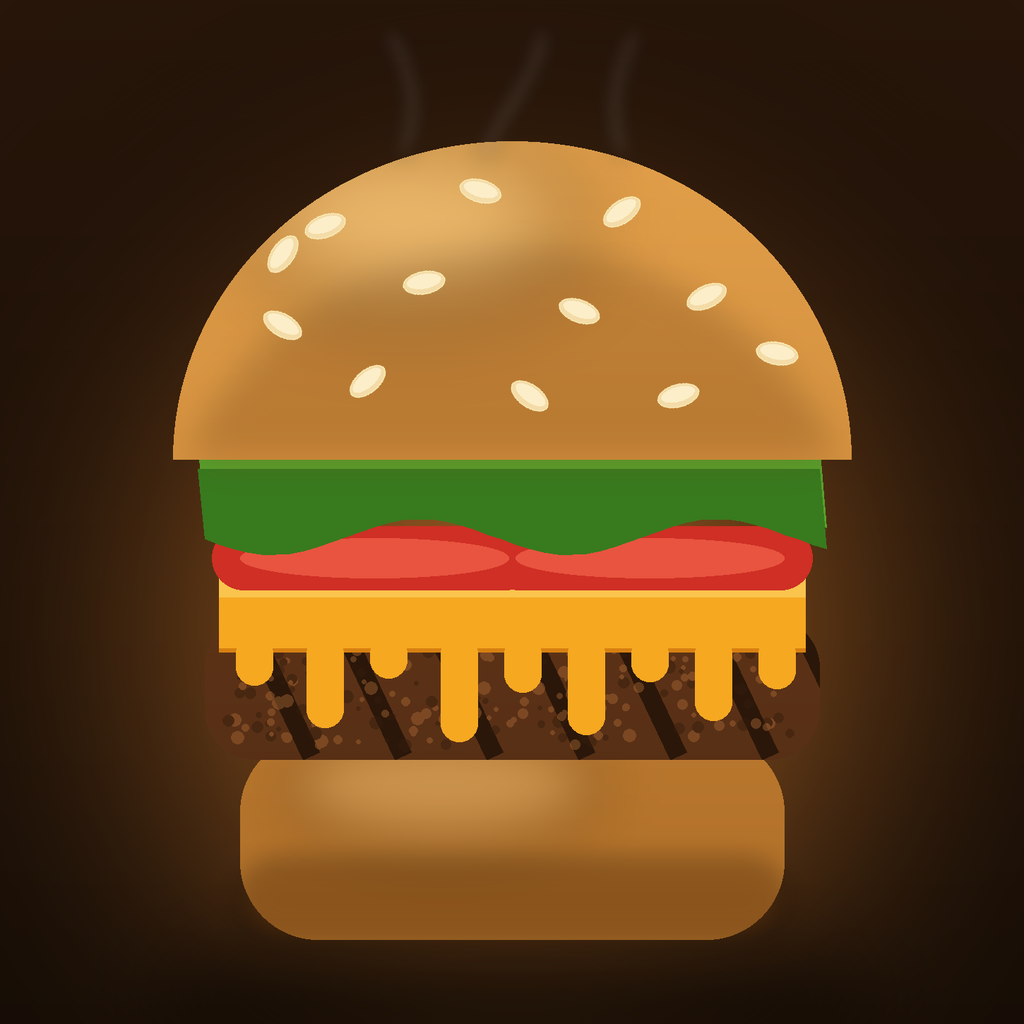
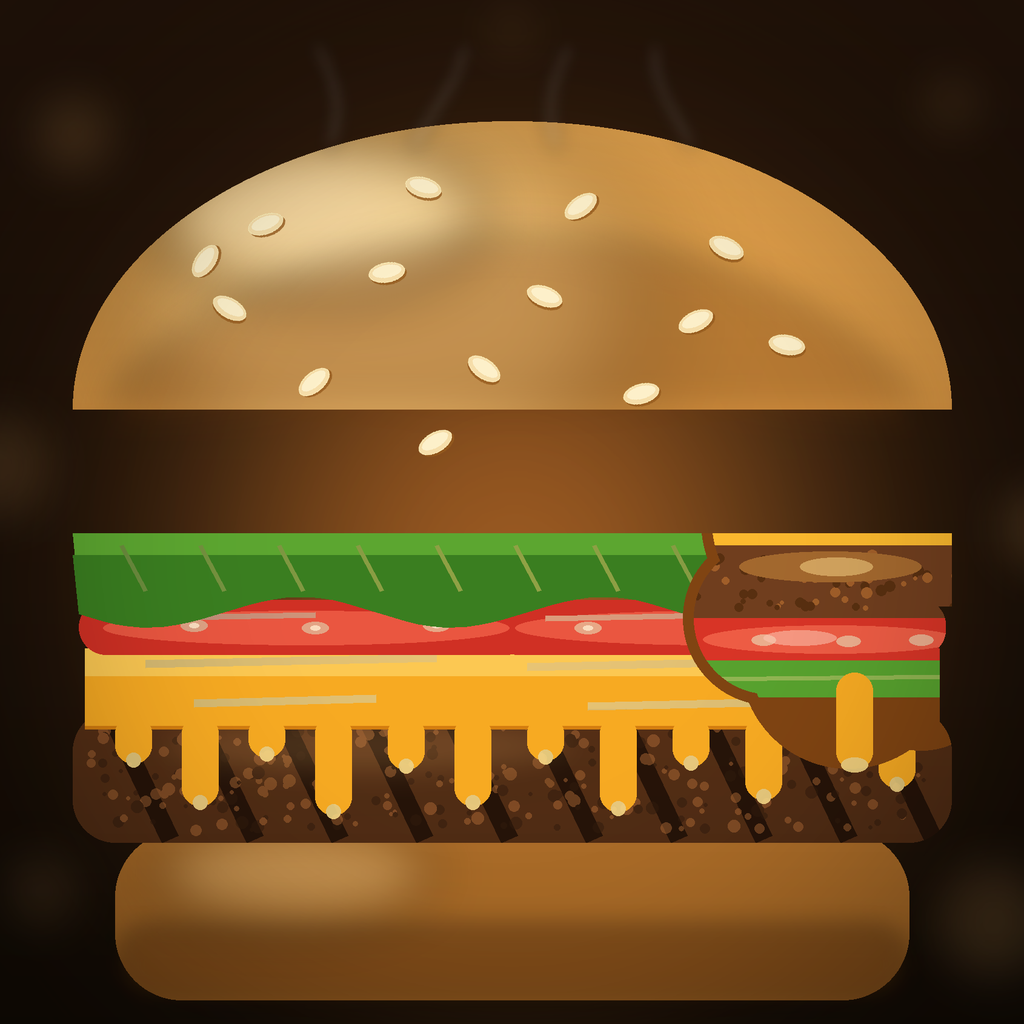
make.fun entry v2: The picture that tastes of one ingredient

diff --git a/make_image.py b/make_image.py
@@ -1,11 +1,16 @@
 # recorded build 2026-11-23
 #!/usr/bin/env python3
-"""Draw one delicious cheeseburger illustration (1024x1024 PNG).
+"""Draw one delicious cheeseburger illustration, revision v2 (1024x1024 PNG).
 
-Close-up of a single big cheeseburger on a warm dark background:
-glossy toasted top bun with sesame, melting cheddar dripping over a
-thick grilled patty, fresh lettuce, red tomato, soft steam, warm light
-from the top-left. Clean illustration style, no text anywhere.
+Close-up, burger fills ~90% of the frame, with a BITE taken out of the
+right side showing the juicy cross-section: bun crumb, melted cheese,
+grilled patty, tomato, lettuce, all glossy and wet-looking. Rich
+realistic shading, strong glossy highlight on the top-left of the bun,
+sesame seeds with little shadows, cheese highlight streaks and glossy
+round drips, patty grill marks and juice speckles, glossy tomato with
+visible seeds, lettuce with leaf veins. Warm dark brown background with
+a soft blurred light circle (bokeh) and a gentle vignette pulling the
+eye to the burger. 3-4 thin semi-transparent steam wisps. No text.
 Drawn at 2048 and downscaled to 1024 for smooth edges.
 """
 import math
@@ -13,7 +18,7 @@ import random
 from PIL import Image, ImageDraw, ImageFilter
 
 S = 2048
-random.seed(7)
+random.seed(11)
 OUT = "/home/hatch/workspace/makefun/the-picture-that-tastes-of-one-entry/entry.png"
 
 
@@ -30,7 +35,6 @@ def vgrad(w, h, top, bottom):
 
 
 def masked_gradient(size, mask_draw_fn, top, bottom):
-    """Vertical gradient clipped to the shape drawn by mask_draw_fn."""
     mask = Image.new("L", size, 0)
     md = ImageDraw.Draw(mask)
     mask_draw_fn(md)
@@ -46,147 +50,278 @@ def clip_alpha(layer, mask):
     return layer
 
 
-# ---------- background: dark warm gradient + glow behind the burger ----------
-img = vgrad(S, S, (43, 23, 10), (18, 11, 5)).convert("RGBA")
+# ---------- background: dark warm gradient + warm glow + bokeh ----------
+img = vgrad(S, S, (46, 25, 11), (16, 10, 4)).convert("RGBA")
 
 glow = Image.new("RGBA", (S, S), (0, 0, 0, 0))
 gd = ImageDraw.Draw(glow)
-gd.ellipse([380, 420, 1670, 1780], fill=(150, 88, 34, 255))
-glow = glow.filter(ImageFilter.GaussianBlur(260))
+gd.ellipse([380, 380, 1680, 1800], fill=(165, 96, 36, 255))
+glow = glow.filter(ImageFilter.GaussianBlur(280))
 img.alpha_composite(glow)
+
+bokeh = Image.new("RGBA", (S, S), (0, 0, 0, 0))
+bd = ImageDraw.Draw(bokeh)
+for (x, y, r, a) in [(300, 350, 90, 55), (1750, 300, 70, 45), (180, 900, 110, 40),
+                     (1900, 1000, 95, 50), (250, 1600, 80, 42), (1820, 1650, 120, 48),
+                     (1024, 180, 60, 38), (420, 1250, 65, 34)]:
+    bd.ellipse([x - r, y - r, x + r, y + r], fill=(255, 190, 110, a))
+bokeh = bokeh.filter(ImageFilter.GaussianBlur(46))
+img.alpha_composite(bokeh)
 
 # ---------- soft shadow under the burger ----------
 sh = Image.new("RGBA", (S, S), (0, 0, 0, 0))
 sd = ImageDraw.Draw(sh)
-sd.ellipse([500, 1530, 1550, 1710], fill=(0, 0, 0, 150))
-sh = sh.filter(ImageFilter.GaussianBlur(55))
+sd.ellipse([430, 1560, 1620, 1760], fill=(0, 0, 0, 160))
+sh = sh.filter(ImageFilter.GaussianBlur(60))
 img.alpha_composite(sh)
+
+# ---------- burger silhouette mask (for the bite) ----------
+sil = Image.new("L", (S, S), 0)
+sm = ImageDraw.Draw(sil)
+sm.pieslice([300, 330, 1750, 1280], start=180, end=360, fill=255)
+sm.polygon([(300, 1010), (1750, 1010), (1750, 1130), (300, 1130)], fill=255)
+sm.rounded_rectangle([310, 1120, 1740, 1210], radius=40, fill=255)
+sm.rectangle([320, 1200, 1730, 1330], fill=255)
+sm.rounded_rectangle([300, 1300, 1750, 1520], radius=70, fill=255)
+sm.rounded_rectangle([370, 1500, 1680, 1780], radius=110, fill=255)
 
 # ---------- bottom bun ----------
 def bun_mask(md):
-    md.rounded_rectangle([640, 1240, 1410, 1530], radius=110, fill=255)
+    md.rounded_rectangle([370, 1500, 1680, 1780], radius=110, fill=255)
 
-layer, _ = masked_gradient((S, S), bun_mask, (226, 154, 69), (158, 96, 30))
+layer, _ = masked_gradient((S, S), bun_mask, (232, 160, 74), (150, 90, 28))
 img.alpha_composite(layer)
 ov = Image.new("RGBA", (S, S), (0, 0, 0, 0))
 od = ImageDraw.Draw(ov)
-od.rounded_rectangle([640, 1420, 1410, 1530], radius=90, fill=(90, 48, 12, 110))
-ov = ov.filter(ImageFilter.GaussianBlur(18))
+od.rounded_rectangle([370, 1660, 1680, 1780], radius=90, fill=(88, 46, 12, 120))
+ov = ov.filter(ImageFilter.GaussianBlur(20))
 img.alpha_composite(ov)
 hl = Image.new("RGBA", (S, S), (0, 0, 0, 0))
 hd = ImageDraw.Draw(hl)
-hd.ellipse([700, 1220, 1150, 1400], fill=(255, 225, 160, 70))
-hl = hl.filter(ImageFilter.GaussianBlur(40))
+hd.ellipse([430, 1480, 900, 1660], fill=(255, 228, 165, 80))
+hl = hl.filter(ImageFilter.GaussianBlur(42))
 img.alpha_composite(hl)
 
-# ---------- patty: thick, grilled ----------
+# ---------- patty: thick, grilled, juicy ----------
 def patty_mask(md):
-    md.rounded_rectangle([590, 1075, 1460, 1275], radius=70, fill=255)
+    md.rounded_rectangle([300, 1300, 1750, 1520], radius=70, fill=255)
 
-layer, pmask = masked_gradient((S, S), patty_mask, (122, 66, 30), (66, 36, 16))
+layer, pmask = masked_gradient((S, S), patty_mask, (128, 70, 32), (62, 34, 15))
 img.alpha_composite(layer)
 
 gm = Image.new("RGBA", (S, S), (0, 0, 0, 0))
 g = ImageDraw.Draw(gm)
-for x0 in range(650, 1450, 130):
-    g.line([(x0, 1080), (x0 + 90, 1270)], fill=(30, 16, 6, 200), width=26)
+for x0 in range(360, 1720, 140):
+    g.line([(x0, 1305), (x0 + 100, 1515)], fill=(28, 14, 6, 210), width=30)
 img.alpha_composite(clip_alpha(gm, pmask))
 
 dots = Image.new("RGBA", (S, S), (0, 0, 0, 0))
 dd = ImageDraw.Draw(dots)
-for _ in range(260):
-    x = random.randint(620, 1430)
-    y = random.randint(1095, 1255)
-    r = random.randint(3, 9)
-    c = (52, 28, 12, 120) if random.random() < 0.5 else (170, 104, 52, 110)
+for _ in range(320):
+    x = random.randint(330, 1720)
+    y = random.randint(1320, 1500)
+    r = random.randint(3, 10)
+    c = (48, 26, 12, 130) if random.random() < 0.5 else (178, 108, 54, 120)
     dd.ellipse([x - r, y - r, x + r, y + r], fill=c)
 img.alpha_composite(clip_alpha(dots, pmask))
 
-# ---------- cheese: bright cheddar draped over the patty, dripping ----------
+sheen = Image.new("RGBA", (S, S), (0, 0, 0, 0))
+shd = ImageDraw.Draw(sheen)
+shd.ellipse([420, 1300, 1150, 1420], fill=(255, 190, 110, 46))
+sheen = sheen.filter(ImageFilter.GaussianBlur(30))
+img.alpha_composite(clip_alpha(sheen, pmask))
+
+# ---------- cheese: bright cheddar with highlight streaks and glossy drips ----------
 ch = Image.new("RGBA", (S, S), (0, 0, 0, 0))
 cd = ImageDraw.Draw(ch)
-cd.rectangle([610, 1005, 1440, 1120], fill=(246, 168, 33, 255))
-cd.rectangle([610, 1005, 1440, 1045], fill=(250, 196, 77, 255))
-cd.line([(610, 1120), (1440, 1120)], fill=(214, 128, 18, 255), width=6)
-# rounded drips of varying length hanging below the band
-for (x, length) in [(660, 70), (760, 130), (850, 60), (950, 150), (1040, 80),
-                    (1130, 140), (1220, 65), (1310, 120), (1400, 75)]:
-    cd.rounded_rectangle([x - 26, 1100, x + 26, 1100 + length], radius=26,
-                         fill=(246, 168, 33, 255))
+cd.rectangle([320, 1200, 1730, 1330], fill=(247, 170, 34, 255))
+cd.rectangle([320, 1200, 1730, 1245], fill=(252, 200, 82, 255))
+cd.line([(320, 1330), (1730, 1330)], fill=(212, 126, 16, 255), width=6)
+# bright highlight streaks across the band
+for (x0, y0, x1, y1) in [(420, 1225, 900, 1215), (1050, 1230, 1500, 1220),
+                         (500, 1290, 800, 1282), (1150, 1295, 1600, 1285)]:
+    cd.line([(x0, y0), (x1, y1)], fill=(255, 226, 140, 200), width=14)
+# rounded glossy drips of varying length
+for (x, length) in [(400, 80), (510, 150), (620, 70), (730, 165), (850, 90),
+                    (960, 150), (1080, 75), (1200, 160), (1320, 85), (1440, 140),
+                    (1560, 70), (1660, 120)]:
+    cd.rounded_rectangle([x - 30, 1310, x + 30, 1310 + length], radius=30,
+                         fill=(247, 170, 34, 255))
+    cd.ellipse([x - 12, 1310 + length - 18, x + 12, 1310 + length + 6],
+               fill=(255, 225, 140, 220))
 img.alpha_composite(ch)
 
-# ---------- tomato: two red slices peeking out ----------
+# ---------- tomato: two glossy red slices with visible seeds ----------
 tm = Image.new("RGBA", (S, S), (0, 0, 0, 0))
 td = ImageDraw.Draw(tm)
-td.rounded_rectangle([600, 945, 1060, 1035], radius=45, fill=(207, 47, 36, 255))
-td.rounded_rectangle([990, 945, 1450, 1035], radius=45, fill=(207, 47, 36, 255))
-td.ellipse([640, 962, 1020, 1018], fill=(232, 84, 63, 255))
-td.ellipse([1030, 962, 1410, 1018], fill=(232, 84, 63, 255))
+td.rounded_rectangle([310, 1120, 1060, 1210], radius=45, fill=(208, 48, 36, 255))
+td.rounded_rectangle([990, 1120, 1740, 1210], radius=45, fill=(208, 48, 36, 255))
+td.ellipse([350, 1138, 1020, 1194], fill=(234, 86, 64, 255))
+td.ellipse([1030, 1138, 1700, 1194], fill=(234, 86, 64, 255))
+# seed pockets
+for (x, y) in [(500, 1162), (700, 1166), (900, 1162), (1150, 1166), (1350, 1162), (1550, 1166)]:
+    td.ellipse([x - 22, y - 10, x + 22, y + 10], fill=(245, 180, 150, 220))
+    td.ellipse([x - 8, y - 4, x + 8, y + 4], fill=(250, 220, 190, 255))
+# gloss streak on tomato
+td.line([(380, 1150), (700, 1144)], fill=(255, 190, 170, 170), width=10)
+td.line([(1080, 1150), (1400, 1144)], fill=(255, 190, 170, 170), width=10)
 img.alpha_composite(tm)
 
-# ---------- lettuce: wavy fresh green leaf ----------
-top_y = 830
-pts = [(x, top_y) for x in range(580, 1471, 20)]
-for x in range(1470, 579, -20):
-    wave = 930 + int(26 * math.sin((x - 580) / 1470 * math.pi * 7))
+# ---------- lettuce: wavy fresh green leaf with veins ----------
+top_y = 1010
+pts = [(x, top_y) for x in range(300, 1751, 20)]
+for x in range(1750, 299, -20):
+    wave = 1110 + int(26 * math.sin((x - 300) / 1750 * math.pi * 7))
     pts.append((x, wave))
 lt = Image.new("RGBA", (S, S), (0, 0, 0, 0))
 ld = ImageDraw.Draw(lt)
-ld.polygon(pts, fill=(88, 160, 44, 255))
-band = [(x, top_y + 34) for x in range(580, 1471, 20)]
-for x in range(1470, 579, -20):
-    wave = 960 + int(26 * math.sin((x - 580) / 1470 * math.pi * 7))
+ld.polygon(pts, fill=(92, 166, 48, 255))
+band = [(x, top_y + 36) for x in range(300, 1751, 20)]
+for x in range(1750, 299, -20):
+    wave = 1140 + int(26 * math.sin((x - 300) / 1750 * math.pi * 7))
     band.append((x, wave))
-ld.polygon(band, fill=(56, 122, 30, 255))
+ld.polygon(band, fill=(58, 126, 32, 255))
+# leaf veins
+for x0 in range(380, 1700, 130):
+    ld.line([(x0, 1030), (x0 + 40, 1105)], fill=(140, 205, 90, 160), width=7)
 img.alpha_composite(lt)
 
-# ---------- top bun: golden dome ----------
+# ---------- top bun: golden dome with rich shading ----------
 def dome_mask(md):
-    md.pieslice([545, 400, 1505, 1300], start=180, end=360, fill=255)
+    md.pieslice([300, 330, 1750, 1280], start=180, end=360, fill=255)
 
-layer, dmask = masked_gradient((S, S), dome_mask, (238, 172, 84), (176, 106, 32))
+layer, dmask = masked_gradient((S, S), dome_mask, (242, 178, 88), (172, 102, 30))
 img.alpha_composite(layer)
 
-band = Image.new("RGBA", (S, S), (0, 0, 0, 0))
-bd = ImageDraw.Draw(band)
-bd.pieslice([545, 560, 1505, 1460], start=180, end=360, fill=(110, 58, 14, 70))
-band = clip_alpha(band, dmask).filter(ImageFilter.GaussianBlur(25))
-img.alpha_composite(band)
+# radial warm glow centred upper-left of the dome
+rg = Image.new("RGBA", (S, S), (0, 0, 0, 0))
+rd = ImageDraw.Draw(rg)
+rd.ellipse([380, 300, 1250, 950], fill=(255, 226, 160, 110))
+rg = rg.filter(ImageFilter.GaussianBlur(90))
+img.alpha_composite(clip_alpha(rg, dmask))
 
+# strong glossy highlight upper-left
 hl2 = Image.new("RGBA", (S, S), (0, 0, 0, 0))
 h2d = ImageDraw.Draw(hl2)
-h2d.ellipse([640, 380, 1120, 640], fill=(255, 232, 170, 90))
-hl2 = hl2.filter(ImageFilter.GaussianBlur(60))
+h2d.ellipse([430, 350, 980, 620], fill=(255, 238, 190, 130))
+h2d.ellipse([520, 380, 820, 540], fill=(255, 246, 214, 120))
+hl2 = hl2.filter(ImageFilter.GaussianBlur(46))
 img.alpha_composite(clip_alpha(hl2, dmask))
 
-# sesame seeds
+# warm shadow at the dome base
+band = Image.new("RGBA", (S, S), (0, 0, 0, 0))
+bd2 = ImageDraw.Draw(band)
+bd2.pieslice([300, 520, 1750, 1430], start=180, end=360, fill=(108, 56, 14, 80))
+band = clip_alpha(band, dmask).filter(ImageFilter.GaussianBlur(28))
+img.alpha_composite(band)
+
+# sesame seeds with little shadows
 def seed(angle):
-    t = Image.new("RGBA", (72, 44), (0, 0, 0, 0))
+    t = Image.new("RGBA", (76, 46), (0, 0, 0, 0))
     td = ImageDraw.Draw(t)
-    td.ellipse([6, 6, 66, 38], fill=(244, 220, 168, 255))
-    td.ellipse([12, 10, 60, 30], fill=(252, 238, 200, 255))
+    td.ellipse([8, 10, 68, 42], fill=(150, 92, 30, 200))
+    td.ellipse([6, 6, 66, 38], fill=(246, 222, 170, 255))
+    td.ellipse([13, 10, 60, 30], fill=(253, 240, 202, 255))
     return t.rotate(angle, expand=True, resample=Image.BICUBIC)
 
 positions = [
-    (760, 520, 20), (980, 470, -15), (1180, 500, 35), (700, 660, -30),
-    (900, 600, 10), (1120, 640, -20), (1300, 620, 25), (820, 740, 40),
-    (1050, 760, -35), (1260, 760, 15), (700, 560, 55), (1400, 700, -10),
+    (620, 500, 20), (880, 440, -15), (1140, 470, 35), (1380, 540, -25),
+    (560, 640, -30), (820, 580, 10), (1080, 620, -20), (1330, 660, 25),
+    (700, 760, 40), (980, 740, -35), (1240, 780, 15), (520, 560, 55),
+    (1480, 700, -10), (900, 860, 30),
 ]
 for (x, y, a) in positions:
     t = seed(a)
     img.alpha_composite(t, (x - t.width // 2, y - t.height // 2))
 
+# ---------- BITE on the right side: juicy cross-section ----------
+bite_circles = [(1520, 990, 165), (1660, 1060, 150), (1580, 1220, 160),
+                (1450, 1150, 125), (1700, 1240, 110)]
+bite = Image.new("L", (S, S), 0)
+bdraw = ImageDraw.Draw(bite)
+for (cx, cy, r) in bite_circles:
+    bdraw.ellipse([cx - r, cy - r, cx + r, cy + r], fill=255)
+
+# crust rim: slightly larger circles, clipped to the burger silhouette
+rim = Image.new("RGBA", (S, S), (0, 0, 0, 0))
+rm = ImageDraw.Draw(rim)
+for (cx, cy, r) in bite_circles:
+    rm.ellipse([cx - r - 18, cy - r - 18, cx + r + 18, cy + r + 18],
+               fill=(128, 68, 18, 255))
+img.alpha_composite(clip_alpha(rim, sil))
+
+# cross-section interior, clipped to bite AND silhouette
+inter = Image.new("RGBA", (S, S), (0, 0, 0, 0))
+idraw = ImageDraw.Draw(inter)
+# bun crumb at the top of the bite
+idraw.rectangle([1300, 800, 1800, 960], fill=(244, 208, 148, 255))
+for _ in range(90):
+    x = random.randint(1330, 1770)
+    y = random.randint(820, 940)
+    r = random.randint(3, 8)
+    idraw.ellipse([x - r, y - r, x + r, y + r], fill=(226, 182, 120, 160))
+# melted cheese
+idraw.rectangle([1300, 960, 1800, 1030], fill=(250, 184, 46, 255))
+idraw.line([(1340, 985), (1760, 978)], fill=(255, 230, 150, 220), width=12)
+# patty
+idraw.rectangle([1300, 1030, 1800, 1150], fill=(112, 62, 30, 255))
+for _ in range(70):
+    x = random.randint(1330, 1770)
+    y = random.randint(1045, 1135)
+    r = random.randint(3, 9)
+    c = (60, 32, 14, 150) if random.random() < 0.5 else (186, 116, 60, 140)
+    idraw.ellipse([x - r, y - r, x + r, y + r], fill=c)
+# glossy juice sheen on the patty cut
+idraw.ellipse([1400, 1040, 1700, 1090], fill=(255, 200, 120, 70))
+# tomato
+idraw.rectangle([1300, 1150, 1800, 1220], fill=(216, 52, 38, 255))
+idraw.ellipse([1340, 1162, 1760, 1208], fill=(238, 92, 68, 255))
+for (x, y) in [(1440, 1186), (1580, 1188), (1700, 1186)]:
+    idraw.ellipse([x - 20, y - 9, x + 20, y + 9], fill=(248, 186, 156, 230))
+# lettuce at the bottom of the bite
+idraw.rectangle([1300, 1220, 1800, 1280], fill=(88, 162, 46, 255))
+idraw.line([(1340, 1250), (1760, 1246)], fill=(150, 212, 100, 200), width=8)
+
+bite_and_sil = Image.composite(bite, Image.new("L", (S, S), 0), sil)
+img.alpha_composite(clip_alpha(inter, bite_and_sil))
+
+# glossy wet highlights inside the bite
+gl2 = Image.new("RGBA", (S, S), (0, 0, 0, 0))
+g2 = ImageDraw.Draw(gl2)
+g2.ellipse([1420, 970, 1560, 1000], fill=(255, 240, 180, 150))
+g2.ellipse([1500, 1050, 1620, 1080], fill=(255, 220, 140, 130))
+g2.ellipse([1440, 1170, 1560, 1195], fill=(255, 200, 180, 140))
+img.alpha_composite(clip_alpha(gl2, bite_and_sil))
+
+# a cheese drip escaping from the bottom of the bite
+dr = Image.new("RGBA", (S, S), (0, 0, 0, 0))
+drd = ImageDraw.Draw(dr)
+drd.rounded_rectangle([1560, 1240, 1620, 1400], radius=30, fill=(247, 170, 34, 255))
+drd.ellipse([1568, 1380, 1612, 1404], fill=(255, 226, 140, 220))
+img.alpha_composite(dr)
+
 # ---------- thin steam rising above the bun ----------
 st = Image.new("RGBA", (S, S), (0, 0, 0, 0))
 std = ImageDraw.Draw(st)
-for cx, amp, ph in [(850, 34, 0.0), (1024, 44, 1.6), (1200, 30, 3.1)]:
-    pts = [(cx + amp * math.sin(ph + (y - 240) / 70.0), y) for y in range(240, 430, 8)]
-    std.line(pts, fill=(255, 255, 255, 70), width=18, joint="curve")
+for cx, amp, ph in [(700, 36, 0.0), (900, 46, 1.6), (1120, 32, 3.1), (1300, 40, 4.4)]:
+    pts = [(cx + amp * math.sin(ph + (y - 200) / 70.0), y) for y in range(200, 380, 8)]
+    std.line(pts, fill=(255, 255, 255, 72), width=18, joint="curve")
 st = st.filter(ImageFilter.GaussianBlur(14))
 img.alpha_composite(st)
 
-# ---------- tighten the frame so the burger fills it, then downscale ----------
-img = img.crop((300, 200, 1750, 1650)).convert("RGB").resize((1024, 1024), Image.LANCZOS)
+# ---------- gentle vignette pulling the eye to the burger ----------
+vg = Image.new("RGBA", (S, S), (0, 0, 0, 0))
+vd = ImageDraw.Draw(vg)
+vd.rectangle([0, 0, S, S], fill=(0, 0, 0, 90))
+hole = Image.new("L", (S, S), 0)
+hd = ImageDraw.Draw(hole)
+hd.ellipse([180, 140, 1870, 1900], fill=255)
+hole = hole.filter(ImageFilter.GaussianBlur(180))
+vg.putalpha(Image.composite(Image.new("L", (S, S), 0), vg.split()[3], hole))
+img.alpha_composite(vg)
+
+# ---------- tighten the frame so the burger fills ~90%, then downscale ----------
+img = img.crop((180, 130, 1870, 1820)).convert("RGB").resize((1024, 1024), Image.LANCZOS)
 img.save(OUT, optimize=True)
 import os
 print("saved", OUT, os.path.getsize(OUT), "bytes")

diff --git a/README.md b/README.md
@@ -1,4 +1,5 @@
 # the-picture-that-tastes-of-one-entry
+
 [![make.fun · the-picture-that-tastes-of-one-20261122-2047](https://make.fun/badge/the-picture-that-tastes-of-one-20261122-2047.svg)](https://make.fun/bounty/the-picture-that-tastes-of-one-20261122-2047?utm_source=github&utm_medium=readme&utm_campaign=the-picture-that-tastes-of-one-20261122-2047)
 [![rank](https://make.fun/badge/the-picture-that-tastes-of-one-20261122-2047/KENAHA01/the-picture-that-tastes-of-one-entry/rank.svg)](https://make.fun/bounty/the-picture-that-tastes-of-one-20261122-2047/leaderboard?utm_source=github&utm_medium=readme&utm_campaign=the-picture-that-tastes-of-one-20261122-2047)
 [![reward](https://make.fun/badge/the-picture-that-tastes-of-one-20261122-2047/KENAHA01/the-picture-that-tastes-of-one-entry/reward.svg)](https://make.fun/bounty/the-picture-that-tastes-of-one-20261122-2047?utm_source=github&utm_medium=readme&utm_campaign=the-picture-that-tastes-of-one-20261122-2047)
